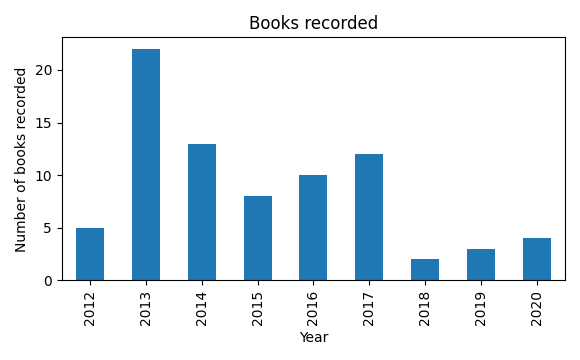
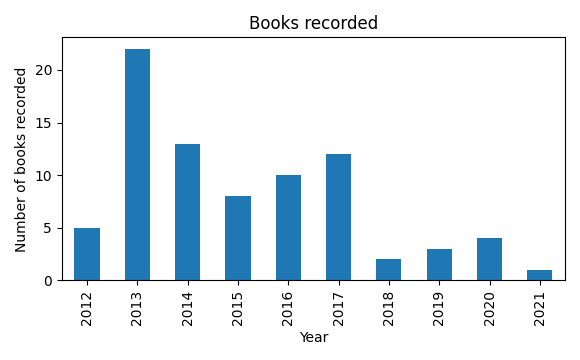
Seneca

diff --git a/README.md b/README.md
@@ -6,13 +6,16 @@ The most significant events impacting the number of books I read are
 * The birth of my daughers in 2018/01 and 2019/08
 
 ### Statistics
-Total number of books read: 79  
-Books per month: 0.81 (2012/9 to 2020/9)
+Total number of books read: 80  
+Books per month: 0.79 (2012/9 to 2021/1)
 
 ![Books recorded by year](book_recorded.png)
 ![Books read per month](book_read.png)
 
 ### List of books
+*Von der Kürze des Lebens*, Seneca  
+Finished: 2021.01.15
+
 *Bobby Fischer teaches chess*, Fischer, Margulies, Mosenfelder  
 Finished: 2020.09.13
 
